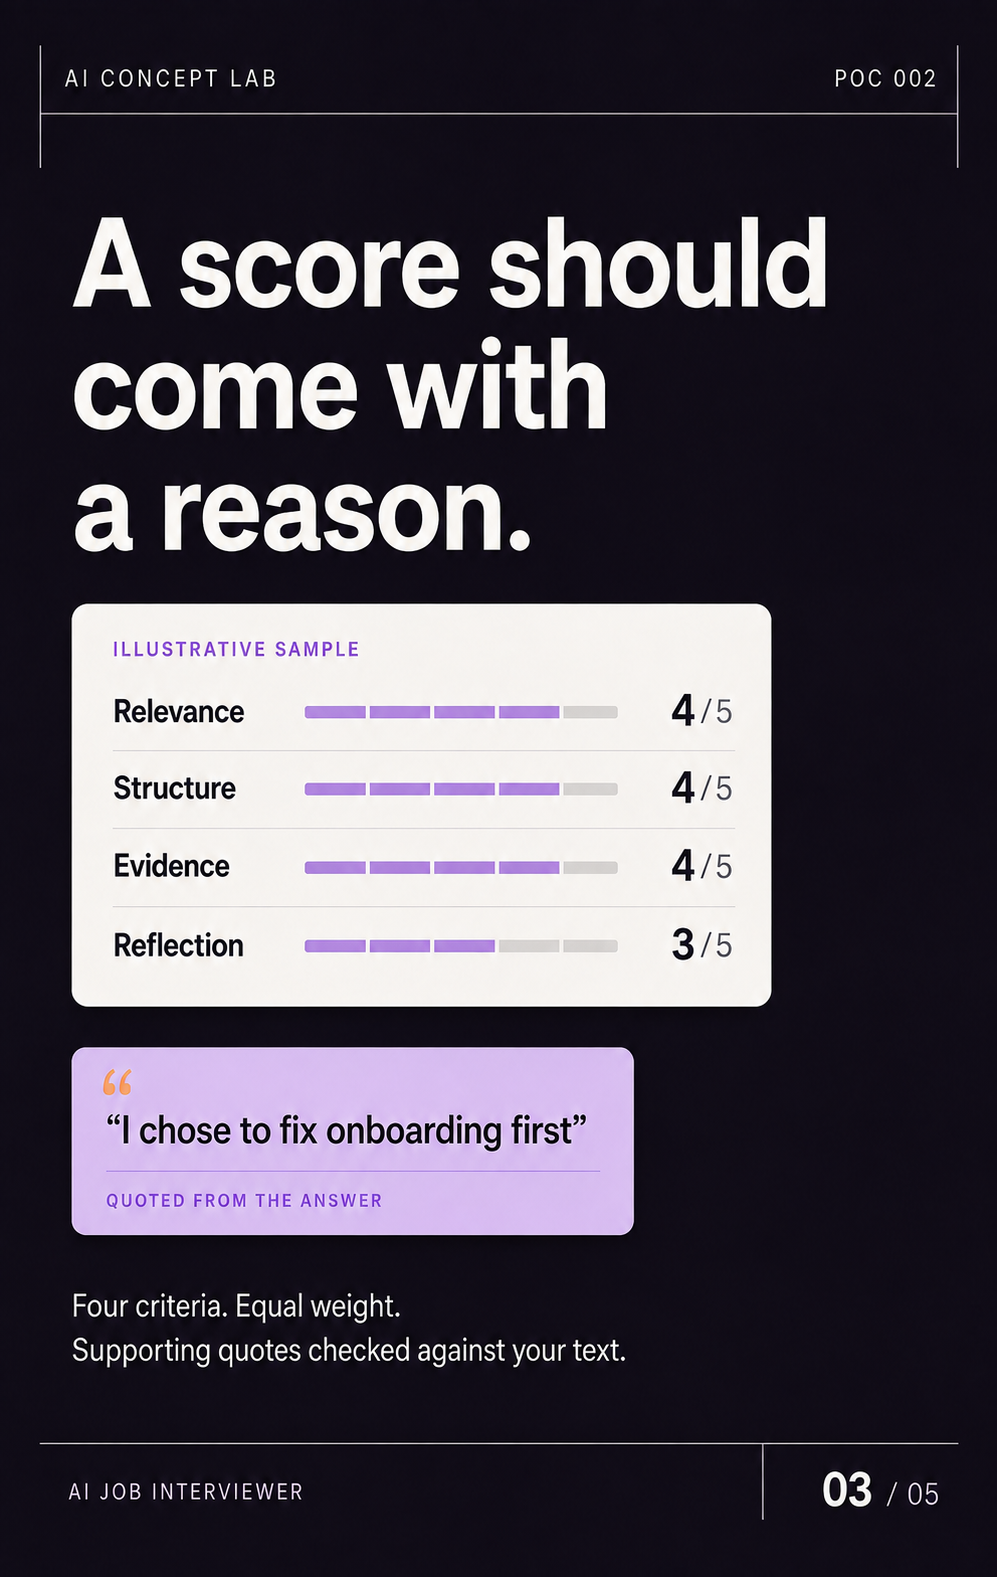
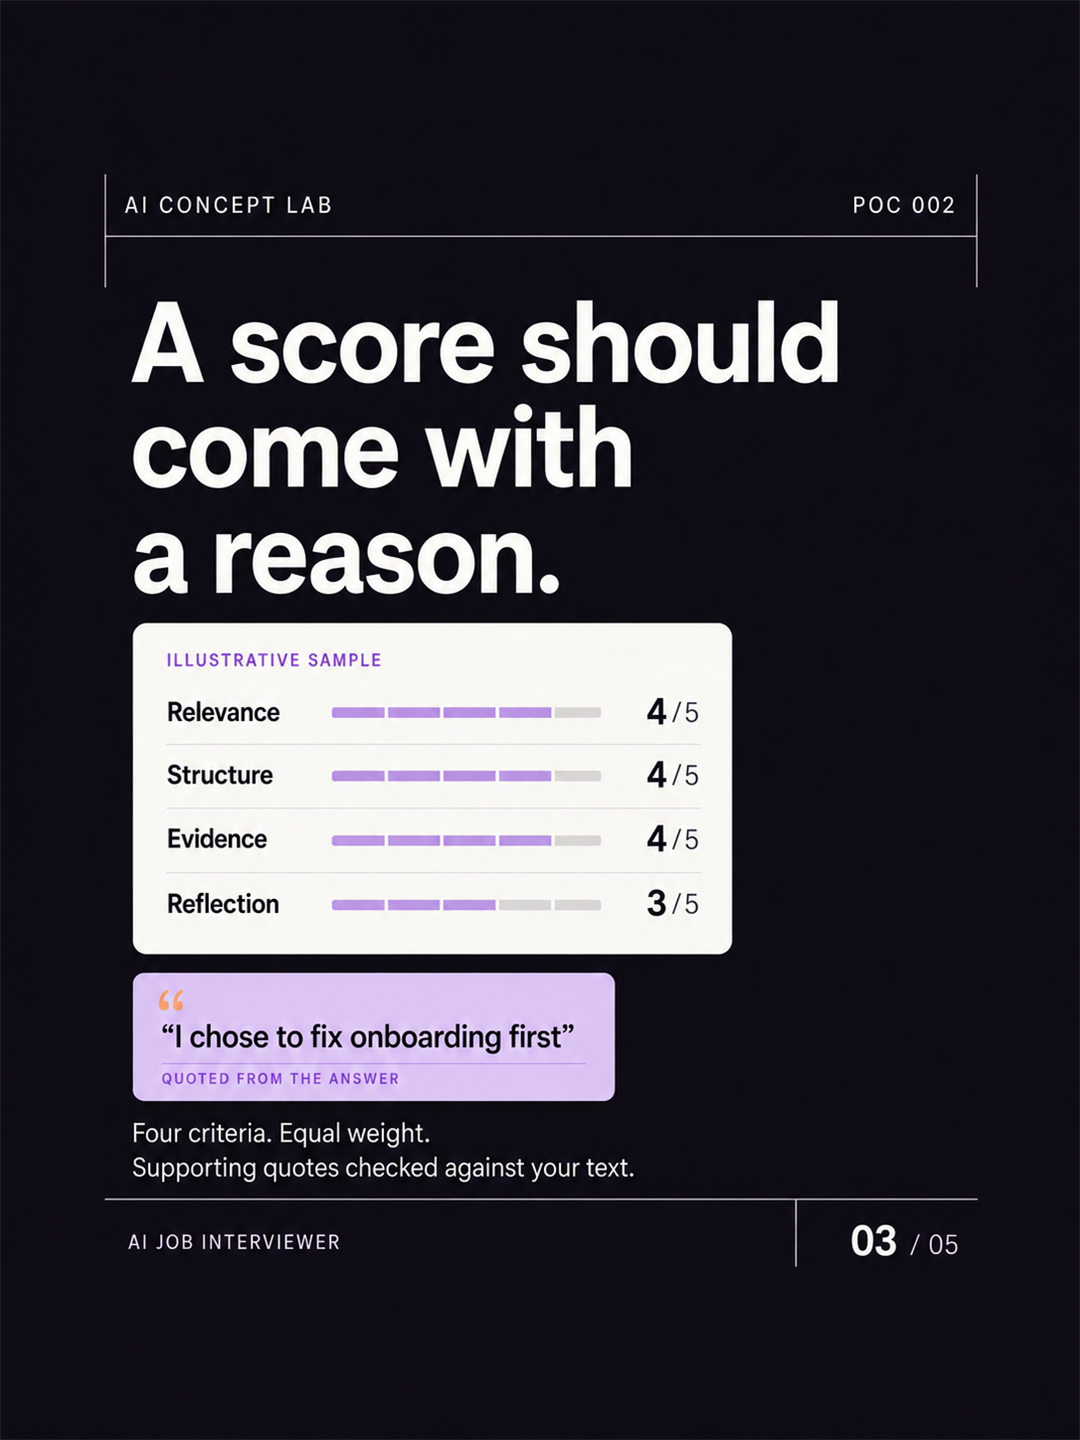
Fit complete carousel designs into 3:4 portrait frames with safe margins

diff --git a/marketing/prompts.md b/marketing/prompts.md
@@ -1,30 +1,8 @@
-# Generation record
+# Image edit record
+Tool: built-in image generation. Final exported PNG size: 1080 × 1440 (3:4).
 
-Tool: built-in image generation, with POC #001 cover and knowledge slide as style references.
-Final dimensions: 997 × 1577, matching the user-provided POC #001 reference. The original 4:5 art direction below is retained as generation history.
+Input: each complete original 1080 × 1350 POC002 slide, including the revised Comment CODE ending.
 
-## Shared art direction
-Create ONE finished Instagram carousel image, portrait 4:5, ideally 1080 x 1350. This is POC002 in an established AI CONCEPT LAB series. Reference images are STYLE references from POC001, not content to repeat. Match the premium dark editorial design: very large bold crisp white sans-serif headline, precise layout, thin hairline framing/rules at header/footer, small widely spaced uppercase brand text, restrained diagram/UI card compositions. New palette ONLY: near-black plum #17131F background, soft lilac #D6B9FF and warm apricot #FFB581 highlights, creamy white. No navy/mint. No gradients except subtle card shading. No person or avatar: this is a VOICE interviewer. Top small header "AI CONCEPT LAB" left, "POC 002" right. Footer thin rule, "AI JOB INTERVIEWER" left, page number right. Keep all content 65px away from edges. Beautiful professional typographic hierarchy, consistent line spacing and ample negative space; no illegible tiny text. Use ONLY requested copy below, spell perfectly. This is an illustrative product concept visual, not a screenshot.
+Prompt: Fit the ENTIRE attached 1080x1350 slide proportionally inside a rectangle 1000px wide by 1250px tall, centered at x=40,y=95 on a 1080x1440 canvas. Extend matching near-black plum background around that rectangle. Preserve the complete existing artwork, every word and number, header, footer, page number, cards, scores, icons, labels, palette, and CTA. Do not zoom in, crop, stretch, change content, or rearrange the layout. Keep at least 95px empty background above and below the full original image; all text stays comfortably inside. No new labels. One finished image only.
 
-## Slide prompts
-### 01-cover
-HERO COVER. Large headline in top half, three lines: "An AI interviewer" / "that scores" / "your answers." Small lilac uppercase subhead: "PRACTISE. REVIEW. IMPROVE." Lower half an elegant outlined browser card with tiny label "CONCEPT PREVIEW", a lilac voice waveform and an apricot small microphone symbol; beside waveform a crisp white scorecard with "75 / 100", "SAMPLE FEEDBACK", "Add how you would apply the lesson." This sample score is illustrative. Bottom above footer: "Swipe to see the build →". Footer page "01 / 05". Match reference cover composition and bold typographic scale; no extra copy.
-
-### 02-interview
-Large top headline: "Say it out loud." / "Then check" / "the transcript." Middle composition: two offset large UI conversation cards. Upper dark lilac outlined card with microphone icon, label "INTERVIEWER", text "Tell me about competing priorities." Lower cream card with label "YOUR ANSWER", text "I chose to fix onboarding first…" and a small pencil icon. A thin apricot arrow connects the cards. Supporting text near lower area: "Choose a role. Answer by voice." / "Review your words before scoring." Small lilac caption: "Typing works too." Footer "02 / 05". Minimal, polished, lots of space.
-
-### 03-scoring
-Large top headline: "A score should" / "come with" / "a reason." Middle: large cream feedback card labelled "ILLUSTRATIVE SAMPLE". Four neat horizontal rows: "Relevance" with "4/5"; "Structure" with "4/5"; "Evidence" with "4/5"; "Reflection" with "3/5". Small lilac bars visualize the four ratings accurately. Overlapping smaller lilac quote card reads: "I chose to fix onboarding first" and small label "QUOTED FROM THE ANSWER". Below cards supporting copy: "Four criteria. Equal weight." / "Supporting quotes checked against your text." Footer "03 / 05". Do not add other scores or invented labels.
-
-### 04-improve
-Large top headline: "Make the next" / "answer better." Middle: large lilac feedback card with simple sparkle icon and label "ONE THING TO IMPROVE". Main card text: "Explain how you would apply" / "the lesson next time." Below an offset cream card labelled "FOLLOW-UP QUESTION" with text "What would you do before" / "the next planning meeting?" Bottom supporting copy: "Refine your answer." / "Practise again. Download the feedback." Small apricot note: "Practice feedback, not a hiring verdict." Footer "04 / 05". Same editorial scale and visual depth as reference knowledge slide.
-
-### 05-build
-Large top headline: "Voice agent." / "LLM evaluator." / "One small build." Middle a clean vertical stack of three wide UI cards connected by short thin downward arrows. Card1 dark lilac: "ElevenLabs" / "Voice interview + transcript". Card2 cream with dark text: "LLM evaluator" / "Rubric + evidence checks". Card3 lilac: "Your feedback" / "Scores + a practical next step". Bottom medium text: "Free source code. Make it yours." Small secondary copy: "Local sample: no keys needed." / "Live voice and scoring use API credits." CTA in apricot: "Comment “CODE” to get the link.". Footer "05 / 05". No other brands/logos. No QR code. Stay legible, fit all content with generous footer space.
-
-## Revisions
-Slides 02–05 were regenerated using the new cover alone as the canvas/style reference, preserving its 1122 × 1402 proportions. Slide 03 was then edited to place the quote card below the scorecard so all four ratings remain visible. Final text and ratings were checked visually.
-
-Slide 05 CTA revision: Built-in image generation edit. Change only the bottom apricot CTA to: Comment “CODE” to get the link. Preserve all other text, layout, typography, colors and icons. Export at 1080 × 1350. Visually checked after editing.
-## Reference-size revision
-Built-in image generation edit. Input 1: the existing POC002 slide, whose wording, artwork and plum/lilac/apricot palette must be preserved. Input 2: the user-provided POC001 cover, used only for its 997 × 1577 canvas and editorial spacing. Adapt each complete slide to this exact tall portrait size. Preserve all text and numbers, keep the header/footer fully visible, avoid overlaps, and preserve the final slide CTA: Comment "CODE" to get the link. Check every resulting image visually and verify all five final dimensions.
+Generated 1086 × 1448 masters were exported proportionally to exactly 1080 × 1440 with high-quality resampling. Each image was inspected, then reviewed in local browser frames at both 3:4 and 4:5. This is a crop simulation; actual Instagram posting was not performed.

diff --git a/marketing/README.md b/marketing/README.md
@@ -1,6 +1,6 @@
 # Instagram launch pack · POC #002
 
-Upload the five numbered PNGs in order. Each file is 997 × 1577 pixels, matching the exact POC #001 reference supplied by the user. The earlier 1080 × 1350 exports have been replaced with this requested format. This edition uses plum, lilac and apricot. Copy caption.txt as the post text.
+Upload the five numbered PNGs in order. Each file is 1080 × 1440 pixels (3:4), with added margins around the complete design. This replaces the earlier exports. Select all five files from this pack and choose Portrait in the ratio screen shown in your screenshot. This edition uses plum, lilac and apricot. Copy caption.txt as the post text.
 
 The images are concept illustrations, not screenshots or evidence of a live benchmark. The sample feedback totals 75/100: 4 + 4 + 4 + 3, multiplied by five. Generated with the built-in image tool; prompts and revision notes are in prompts.md.
 
@@ -9,7 +9,10 @@ The images are concept illustrations, not screenshots or evidence of a live benc
 2. **02-interview.png:** "Say it out loud. Then check the transcript." An interviewer asks about competing priorities; a candidate answer says they chose to fix onboarding first. Voice answers can be reviewed and edited; typing is also supported.
 3. **03-scoring.png:** "A score should come with a reason." Sample scores are relevance 4/5, structure 4/5, evidence 4/5 and reflection 3/5. A supporting quote reads "I chose to fix onboarding first."
 4. **04-improve.png:** "Make the next answer better." Feedback asks the user to explain how they would apply a lesson next time. A follow-up asks what they would do before the next planning meeting.
-5. **05-build.png:** "Voice agent. LLM evaluator. One small build." A diagram connects ElevenLabs voice and transcript, an LLM with a rubric and evidence checks, and practical feedback. Source code and the local sample are free; live APIs consume credits. The call to action reads: Comment "CODE" to get the link.
+5. **05-build.png:** "Voice agent. LLM evaluator. One small build." A diagram connects ElevenLabs voice and transcript, an LLM with a rubric and evidence checks, and practical feedback. Source code and the local sample are free; live APIs consume credits.
 
 ## Publishing note
 Link to https://github.com/aiconceptlab/poc-002-ai-job-interviewer from your profile or link page. The assets and caption are prepared for posting; this project does not publish to Instagram automatically.
+
+## Crop validation
+All five exports were verified at exactly 1080 × 1440. A browser preview displayed each complete image in a 3:4 frame and with a centered 4:5 crop (45 pixels removed at top and bottom). Headers, footers, scores, supporting text and the final Comment CODE call to action remained visible. This is a local crop simulation, not a completed Instagram upload. Do not mix the earlier 997 × 1577 exports into this carousel.
